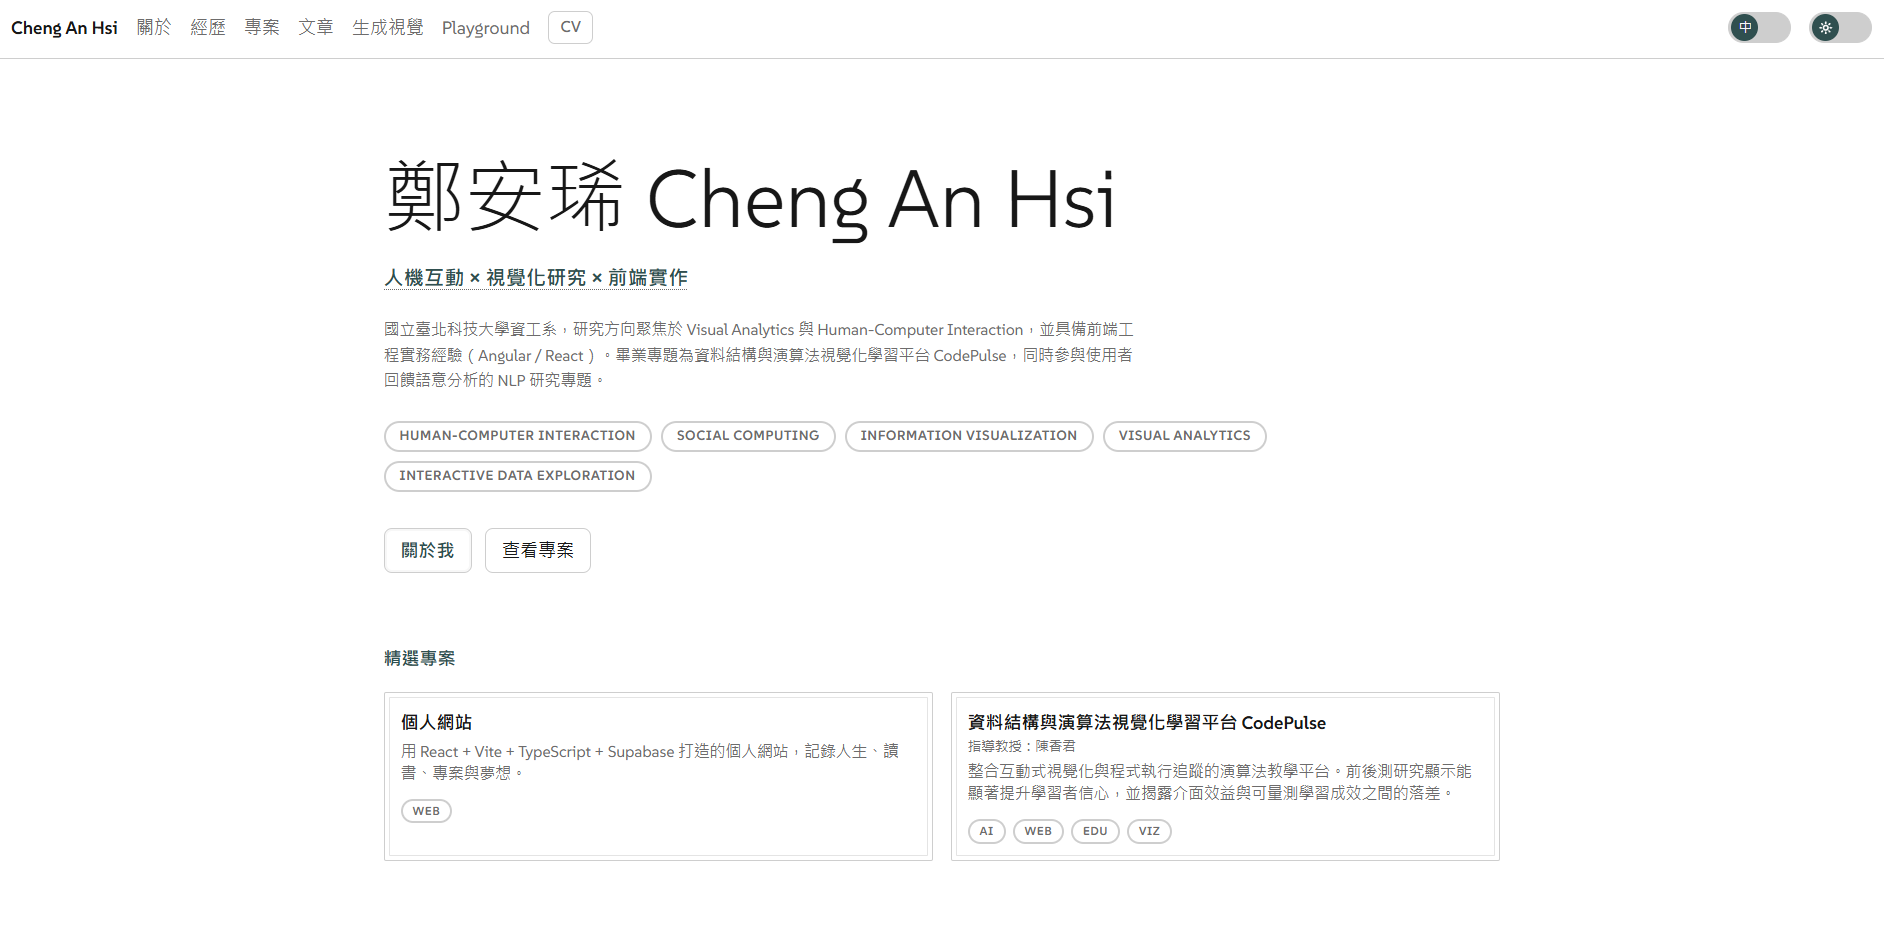
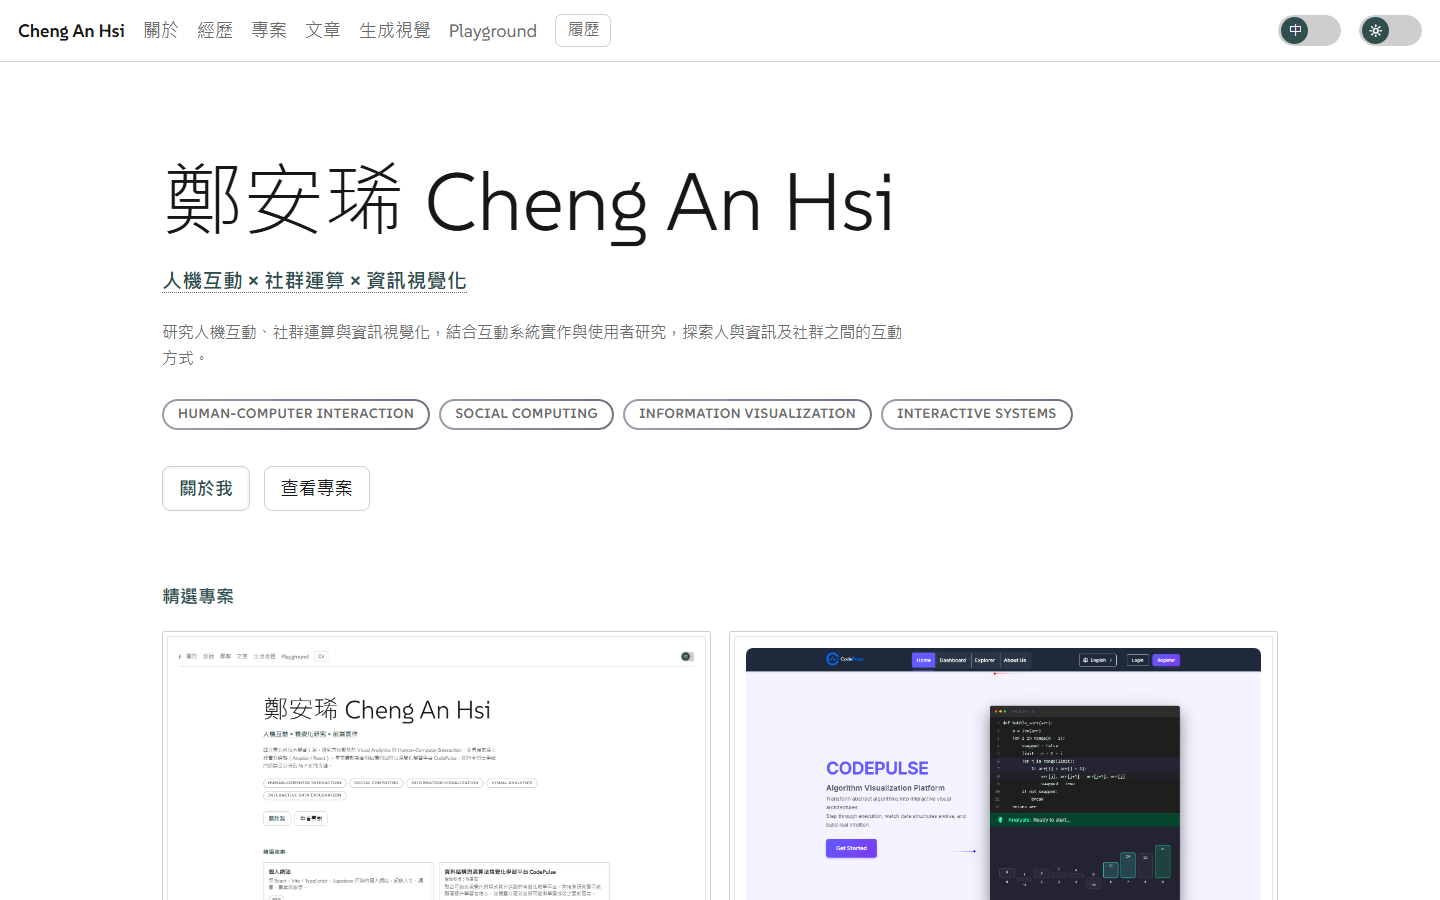
feat: Update personal website project documentation and add new images

diff --git a/content/projects/en/personal-website.md b/content/projects/en/personal-website.md
@@ -6,7 +6,7 @@ I wanted a place to accumulate content over the long term (documenting projects 
 
 <figure>
   <img src="/images/projects/personal-website/home.png" alt="The personal website's home page, showing the name, positioning statement, research-interest tags, and featured project cards" style="display: block; margin: 0 auto; max-width: 100%;" />
-  <figcaption style="text-align: center;">Home page — hero section, research-interest tags, and featured project cards</figcaption>
+  <figcaption style="text-align: center;">Home page: hero section, research-interest tags, and featured project cards</figcaption>
 </figure>
 
 ## Technical Architecture
@@ -18,7 +18,7 @@ I wanted a place to accumulate content over the long term (documenting projects 
 - **Tailwind CSS v4**: Used for the many card/grid layouts (project list, gallery, friends' creation wall) with utility classes; a handful of pages that need more complex state selectors (`:global(.dark) &`, negative-margin layout tricks) fall back to CSS Modules (`.module.scss`).
 - **TanStack Query**: Handles loading/error/cache state for Supabase data uniformly, so every page doesn't need to hand-roll its own fetch logic and repeated loading states.
 - **react-markdown + remark-gfm + rehype-raw**: Articles and long-form project write-ups (`content/articles/*.md`, `content/projects/*.md`) are written in Markdown with frontmatter for title/date/category; `rehype-raw` allows raw HTML embedded inside the Markdown (e.g. centered `<figure>` elements, `<span data-term>` glossary markers), which is more flexible than plain Markdown syntax alone.
-- **p5.js (instance mode)**: Powers the art gallery: 21 generative-art and interactive pieces migrated over from OpenProcessing. Instance mode was chosen over global mode because, with multiple sketches coexisting, global mode's `setup`/`draw` functions would clobber each other; instance mode lets each piece mount independently and unmount cleanly via `p5Instance.remove()`, guaranteeing at most one live canvas on the site at any time.
+- **p5.js (instance mode)**: Powers the art gallery: 30 generative-art and interactive pieces migrated over from OpenProcessing. Instance mode was chosen over global mode because, with multiple sketches coexisting, global mode's `setup`/`draw` functions would clobber each other; instance mode lets each piece mount independently and unmount cleanly via `p5Instance.remove()`, guaranteeing at most one live canvas on the site at any time.
 - **matter-js**: The 2D rigid-body physics engine behind one gallery piece ("Metal Collision"), now managed as a proper npm dependency (rather than injected via <span data-term="cdn">CDN</span> as in the original OpenProcessing version), and imported only by that one sketch module.
 - **React Three Fiber + drei + three.js**: Powers the friends' 3D creature-painting editor and viewer, plus the `/dev/creature-builder` sculpting tool. It uses <span data-term="instancing">Instancing</span> to render large numbers of voxel cubes, and handles performance details like camera centroid computation and mounting/unmounting the WebGL context via <span data-term="intersection-observer">IntersectionObserver</span>.
 - **FontAwesome**: Icons (the interests list on the About page, UI controls, etc.).
@@ -32,7 +32,11 @@ The site's content splits into two categories ("written slowly by me, rarely cha
 | Articles, projects, dreams, gallery metadata, glossary terms | Git content files (`content/*.json`, `content/**/*.md`) | Committed alongside code; pushed changes are auto-built and deployed by CI                            |
 | Friends' 2D/3D creations                                     | Supabase (Postgres + RLS)                               | Friends write in real time via invite code; moderation (`is_visible`) is done through Supabase Studio |
 
-This split gives zero backend latency (most content is static data baked into the bundle, no API round-trip needed), built-in version history (who wrote what, when, is always traceable), and low switching cost: if I later decide to move a section from a Git file to Supabase, or the other way around, the frontend just swaps out a data-fetching hook rather than committing to an irreversible architecture.
+Benefits of this split:
+
+- **Zero backend latency**: most content is static data baked into the bundle, no API round-trip needed.
+- **Built-in version history**: who wrote what, when, is always traceable.
+- **Low switching cost**: if I later decide to move a section from a Git file to Supabase, or the other way around, the frontend just swaps out a data-fetching hook rather than committing to an irreversible architecture.
 
 ### Supabase: The Only Dynamic Write Feature
 
@@ -50,26 +54,124 @@ GitHub Actions (`.github/workflows/deploy.yml`) automatically runs `npm run buil
 
 ## Features by Section
 
-- **Home `/`**: A hero section (name, positioning statement, short bio) plus research-interest tags (linking to `/knowledge?category=RESEARCH`, filtered to the matching glossary category, not an anchor on the About page); separate featured-project and featured-article carousels (driven by the `featured` flag in `projects.json` / article frontmatter, not any research-vs-engineering heuristic, currently the featured projects are the personal website itself and CodePulse); navigation cards linking to Experience/Articles/Gallery/All Projects/Mini Works; a footer with external links to GitHub, OpenProcessing, and email.
-- **About `/about`**: Professional skills (grouped by Programming / Data & Visualization / Frontend / Others / research direction), education (with expandable per-semester grades and rank), research interests (in three tiers: Core / Methods / Applied), academic output, selected competitions and experience (linking to the full experience page), personal interests, and a résumé download (links to `public/resume.pdf`).
-- **Experience `/experience`**: A vertical timeline page with primary and secondary entries, each tagged with a date, chips, and a summary of highlights; purely static data (`content/experience.json`), there aren't enough entries to justify dynamic fetching.
-- **Articles `/articles`**: Book notes and popular-science/technical notes (distinguished by `type: book | note`), filterable by title, category, rating, and date; body content renders on a `/articles/:slug` detail page and can embed glossary terms (see below).
-- **Projects `/projects`**: A project list filterable by tag, status, and date; if a project has a matching long-form write-up at `content/projects/<slug>.md` in addition to its `projects.json` entry, it renders as a `/projects/:slug` detail page, organized under a consistent set of sections: "Project Overview, System Architecture, Core Features, Conclusion" (or "Background, Methods, Results, Conclusion" for research-style projects).
-- **Glossary**: Technical terms that appear in articles and long-form project write-ups (<span data-term="elo-rating">ELO Rating</span>, <span data-term="ast">AST</span>, <span data-term="cosine-similarity">Cosine Similarity</span>, <span data-term="ckip">CKIP</span>, <span data-term="zero-shot">Zero-Shot</span>, <span data-term="rls">RLS</span>, and others) are marked as clickable, clicking one opens a popover card with two sections: a "general definition" and "how this project actually uses it." Rather than sending readers off to an external wiki, it folds the term back into "why this project needed it," letting readers unfamiliar with the background follow the technical content of research-oriented projects without leaving the page. There's also a standalone `/knowledge` list page, filterable by keyword and category, where opening `/knowledge/:slug` shows a single term's full definition plus its related projects/articles.
-- **Art Gallery `/gallery`**: 21 generative-art and interactive pieces migrated from OpenProcessing and rewritten in p5.js instance mode. The list page is styled as a "horizontal exhibition room": each piece hangs in a frame, vertical scroll wheel input is converted to horizontal scrolling, and the centered piece is lit up like it's under a spotlight. Supports filtering by title, date, and interaction type (click-to-redraw / drag-to-paint / keyboard-controlled / button-based turns / drag physics), plus newest/oldest sorting. Only when you open a single piece's detail page does its sketch module actually load and mount a canvas; the background switches to a dark exhibition mood (a CSS `radial-gradient` layered to fake a spotlight), and everything unmounts the instant you leave the page, so at most one p5 canvas is ever alive at a time.
-- **Playground `/playground`**: A hub page for "things that are more personal or still evolving," linking to Dreams, Friends' Creations, Mini Works, and the dev tools: `/dev/components` (a UI component-library preview), `/dev/creature` (verifying the 3D creature's walking animation), and `/dev/creature-builder` (stacking cubes to sculpt a 3D creature shape and export coordinates back into code). None of the `/dev` tools connect to Supabase or write to the filesystem. They're throwaway aids used during development. They aren't linked from the main nav, but they're still publicly reachable routes via the Playground page.
-- **Dreams `/dreams`**: A static list of things I want to do, with some items showing a progress bar where there's a quantifiable goal.
-- **Mini Works `/playground/mini-works`**: A list of small interactive pieces (class assignments, CodePen practice, and the like) with `/playground/mini-works/:slug` showing a single piece.
-- **Friends' Creations `/friends`**: A creation wall presents friends' 2D pixel art and 3D creature paintings in a carousel; 3D cards only mount a live Three.js scene once they scroll into view (<span data-term="intersection-observer">IntersectionObserver</span> controls mounting/unmounting so the number of simultaneous WebGL contexts never exceeds what the browser can handle). Clicking a centered piece that has a description opens a full-page lightbox view. `/friends/create` is the full creation flow: enter an invite code and nickname → validation (three states: `unused` / `used` with the original piece / `invalid`) → choose 2D or 3D (locked in once chosen, re-editing can't switch type) → paint in the matching editor (free color picker, paint bucket, undo/redo scoped to "one drag" as a unit, an optional description up to 200 characters) → submit and write to Supabase.
+### Home `/`
+
+A hero section (name, positioning statement, short bio) plus research-interest tags (linking to `/knowledge?category=RESEARCH`, filtered to the matching glossary category, not an anchor on the About page); separate featured-project and featured-article carousels (driven by the `featured` flag in `projects.json` / article frontmatter, not any research-vs-engineering heuristic, currently the featured projects are the personal website itself and CodePulse); navigation cards linking to Experience/Articles/Gallery/All Projects/Mini Works; a footer with external links to GitHub, OpenProcessing, and email.
+
+<figure>
+  <img src="/images/projects/personal-website/home.png" alt="The home page, showing the name, positioning statement, research-interest tags, and featured project cards" style="display: block; margin: 0 auto; max-width: 100%;" />
+  <figcaption style="text-align: center;">Home: hero section, research-interest tags, and featured project cards</figcaption>
+</figure>
+
+### About `/about`
+
+Professional skills (grouped by Programming / Data & Visualization / Frontend / Others / research direction), education (with expandable per-semester grades and rank), research interests (in three tiers: Core / Methods / Applied), academic output, selected competitions and experience (linking to the full experience page), personal interests, and a résumé download (links to `public/resume.pdf`).
+
+<figure>
+  <img src="/images/projects/personal-website/about.png" alt="The About page, large 'About Me' text on the left with a tiered research-interest list on the right" style="display: block; margin: 0 auto; max-width: 100%;" />
+  <figcaption style="text-align: center;">About: tiered research-interest list</figcaption>
+</figure>
+
+### Experience `/experience`
+
+A vertical timeline page with primary and secondary entries, each tagged with a date, chips, and a summary of highlights; purely static data (`content/experience.json`), there aren't enough entries to justify dynamic fetching.
+
+<figure>
+  <img src="/images/projects/personal-website/experience.png" alt="The Experience page, a vertical timeline of primary and secondary entries" style="display: block; margin: 0 auto; max-width: 100%;" />
+  <figcaption style="text-align: center;">Experience: vertical timeline</figcaption>
+</figure>
+
+### Articles `/articles`
+
+Book notes and popular-science/technical notes (distinguished by `type: book | note`), filterable by title, category, rating, and date; body content renders on a `/articles/:slug` detail page and can embed glossary terms (see below).
+
+<figure>
+  <img src="/images/projects/personal-website/articles.png" alt="The Articles list page, showing category and filter chips" style="display: block; margin: 0 auto; max-width: 100%;" />
+  <figcaption style="text-align: center;">Articles list: category and filter chips</figcaption>
+</figure>
+
+### Projects `/projects`
+
+A project list filterable by tag, status, and date; if a project has a matching long-form write-up at `content/projects/<slug>.md` in addition to its `projects.json` entry, it renders as a `/projects/:slug` detail page, organized under a consistent set of sections: "Project Overview, System Architecture, Core Features, Conclusion" (or "Background, Methods, Results, Conclusion" for research-style projects).
+
+<figure>
+  <img src="/images/projects/personal-website/projects.png" alt="The Projects list page, showing tag and status filters" style="display: block; margin: 0 auto; max-width: 100%;" />
+  <figcaption style="text-align: center;">Projects list: tag and status filters</figcaption>
+</figure>
+
+### Glossary
+
+Technical terms that appear in articles and long-form project write-ups (<span data-term="elo-rating">ELO Rating</span>, <span data-term="ast">AST</span>, <span data-term="cosine-similarity">Cosine Similarity</span>, <span data-term="ckip">CKIP</span>, <span data-term="zero-shot">Zero-Shot</span>, <span data-term="rls">RLS</span>, and others) are marked as clickable, clicking one opens a popover card with two sections: a "general definition" and "how it's actually used here." When the same term is shared across multiple projects/articles, the "how it's used" section picks the passage matching whichever project or article you're currently on, instead of mixing in unrelated usages. Rather than sending readers off to an external wiki, it folds the term back into "why this place needed it," letting readers unfamiliar with the background follow the technical content of research-oriented projects without leaving the page. The popover itself is a component that recurs across pages, so it has no standalone screen of its own; but there's also a standalone `/knowledge` list page filterable by keyword and category, and opening `/knowledge/:slug` shows a single term's full definition plus its related projects/articles, with some terms also carrying a full-length write-up (`content/knowledge/{zh,en}/*.md`), while terms without one keep the plain compact card.
+
+<figure>
+  <img src="/images/projects/personal-website/knowledge-term.png" alt="A knowledge-term detail page, showing the general definition, the context-specific application note, and the term's long-form write-up" style="display: block; margin: 0 auto; max-width: 100%;" />
+  <figcaption style="text-align: center;">Knowledge term detail page: general definition, context-aware application, and long-form content</figcaption>
+</figure>
+
+### Knowledge Graph `/knowledge/graph` (experimental)
+
+Renders the prerequisite/related/applies_to/contrasts_with relationships between glossary terms as a force-directed graph. By default only category hubs are shown; clicking one expands it into individual terms, several categories can be expanded at once, and nodes can be manually dragged into place. Panning and dragging don't work well on a narrow phone screen, so below the `sm` breakpoint it shows a text hint pointing users to a tablet or desktop instead.
+
+<figure>
+  <img src="/images/projects/personal-website/knowledge-graph.png" alt="The Knowledge Graph page, with one category expanded showing individual term nodes and edges" style="display: block; margin: 0 auto; max-width: 100%;" />
+  <figcaption style="text-align: center;">Knowledge Graph: force-directed layout with a category expanded</figcaption>
+</figure>
+
+### Art Gallery `/gallery`
+
+30 generative-art and interactive pieces migrated from OpenProcessing and rewritten in p5.js instance mode. The list page is styled as a "horizontal exhibition room": each piece hangs in a frame, vertical scroll wheel input is converted to horizontal scrolling, and the centered piece is lit up like it's under a spotlight. Supports filtering by title, date, and interaction type (click-to-redraw / drag-to-paint / keyboard-controlled / button-based turns / drag physics), plus newest/oldest sorting. Only when you open a single piece's detail page does its sketch module actually load and mount a canvas; the background switches to a dark exhibition mood (a CSS `radial-gradient` layered to fake a spotlight), and everything unmounts the instant you leave the page, so at most one p5 canvas is ever alive at a time.
+
+<figure>
+  <img src="/images/projects/personal-website/gallery.png" alt="The Art Gallery list page, a horizontal exhibition room of generative-art thumbnails" style="display: block; margin: 0 auto; max-width: 100%;" />
+  <figcaption style="text-align: center;">Art Gallery: horizontal exhibition room</figcaption>
+</figure>
+
+### Playground `/playground`
+
+A hub page for "things that are more personal or still evolving," currently linking to Dreams, Mini Works, and one dev tool: `/dev/components` (a UI component-library preview). The cards linking to Friends' Creations and the two 3D creature dev tools (`/dev/creature` for walking-animation checks, `/dev/creature-builder` for stacking cubes to sculpt a shape) have been pulled from this page while that work continues on a separate branch; the routes themselves are still there, ready to be relinked later.
+
+<figure>
+  <img src="/images/projects/personal-website/playground.png" alt="The Playground page, with cards linking to Dreams, Mini Works, and the component preview" style="display: block; margin: 0 auto; max-width: 100%;" />
+  <figcaption style="text-align: center;">Playground: entry cards</figcaption>
+</figure>
+
+### Dreams `/dreams`
+
+A static list of things I want to do, with some items showing a progress bar where there's a quantifiable goal.
+
+<figure>
+  <img src="/images/projects/personal-website/dreams.png" alt="The Dreams page, a static list of things I want to do" style="display: block; margin: 0 auto; max-width: 100%;" />
+  <figcaption style="text-align: center;">Dreams: list of things I want to do</figcaption>
+</figure>
+
+### Mini Works `/playground/mini-works`
+
+A list of small interactive pieces (class assignments, CodePen practice, and the like) with `/playground/mini-works/:slug` showing a single piece.
+
+<figure>
+  <img src="/images/projects/personal-website/mini-works.png" alt="The Mini Works list page" style="display: block; margin: 0 auto; max-width: 100%;" />
+  <figcaption style="text-align: center;">Mini Works: list page</figcaption>
+</figure>
+
+> The full `/friends` creation flow (invite-code redemption, 2D/3D editors, re-editing) is already built, but nothing on the site currently links to it, so it's left out of the section list above. See "Conclusion and Contributions" below for details.
 
 ## Conclusion and Contributions
 
 This project isn't just a portfolio site; it's an exercise in deliberately deciding what _not_ to build: no login system, no visitor traffic analytics or third-party tracking, no moderation queue for friend creations (the low-resolution pixel grid and fixed creature shape already constrain "what can be drawn" to a small enough range that an extra moderation layer would be over-engineering). Thinking through whether to build something before deciding how to build it turned out to be closer to the kind of architectural trade-off you actually run into on real projects than simply stacking on features would have been.
 
-There are three main technical contributions. First, migrating p5.js entirely from OpenProcessing's global mode to instance mode, letting 21 generative-art pieces coexist in the same SPA without polluting each other's global state, so the whole site never has more than one live canvas at a time. Second, the friend-creation system uses Postgres <span data-term="security-definer">Security Definer Function</span> RPCs combined with `for update` row locking to resolve the invite-code <span data-term="race-condition">Race Condition</span> without any account system, while letting a single invite code serve double duty as both a one-time redemption token and a long-term editing credential. Third, 2D pixel art and 3D voxel painting share the same "sparse coordinate array" data model and undo/redo architecture, keeping data volume and content risk at the same level across both creation types, so the database schema never needed to change to accommodate a new creation type.
+There are four main technical contributions:
 
-What's currently finished covers all the static content sections (Home, About, Experience, Articles, Projects, Glossary, Gallery, Playground, Dreams, Mini Works) and the full friend-creation flow (invite-code redemption, 2D/3D editors, re-editing, undo/redo); the glossary feature is wired into both articles and project write-ups, plus a standalone `/knowledge` browsing page, lowering the barrier to reading research-oriented project content.
+- **p5.js instance-mode migration**: migrating p5.js entirely from OpenProcessing's global mode to instance mode, letting 30 generative-art pieces coexist in the same SPA without polluting each other's global state, so the whole site never has more than one live canvas at a time.
+- **Invite-code race condition**: the friend-creation system uses Postgres <span data-term="security-definer">Security Definer Function</span> RPCs combined with `for update` row locking to resolve the invite-code <span data-term="race-condition">Race Condition</span> without any account system, while letting a single invite code serve double duty as both a one-time redemption token and a long-term editing credential.
+- **A unified painting data model**: 2D pixel art and 3D voxel painting share the same "sparse coordinate array" data model and undo/redo architecture, keeping data volume and content risk at the same level across both creation types, so the database schema never needed to change to accommodate a new creation type.
+- **Context-aware glossary**: when a term is shared across multiple projects/articles, its "how it's used" text now picks the passage matching the current context instead of merging everything into one sentence; some terms also carry a full write-up, and there's a new experimental force-directed view of term relationships (`/knowledge/graph`).
+
+What's currently finished covers all the static content sections (Home, About, Experience, Articles, Projects, Glossary, Gallery, Playground, Dreams, Mini Works); the glossary feature is wired into both articles and project write-ups, with context-aware descriptions, long-form entries for some terms, and the graph view, all aimed at lowering the barrier to reading research-oriented project content.
+
+The full friend-creation flow (invite-code redemption, 2D/3D editors, re-editing, undo/redo) is code-complete, but nothing on the live site currently links to it; it'll be reconnected once that work converges on its own branch.
 
 What's next:
 
 1. Keep refining the visual design
+2. Knowledge graph: color-code edges by relationship type (prerequisite/related/applies_to/contrasts_with), and add a way to browse it on mobile
+3. Reconnect the friend-creation feature to a main navigation entry point
